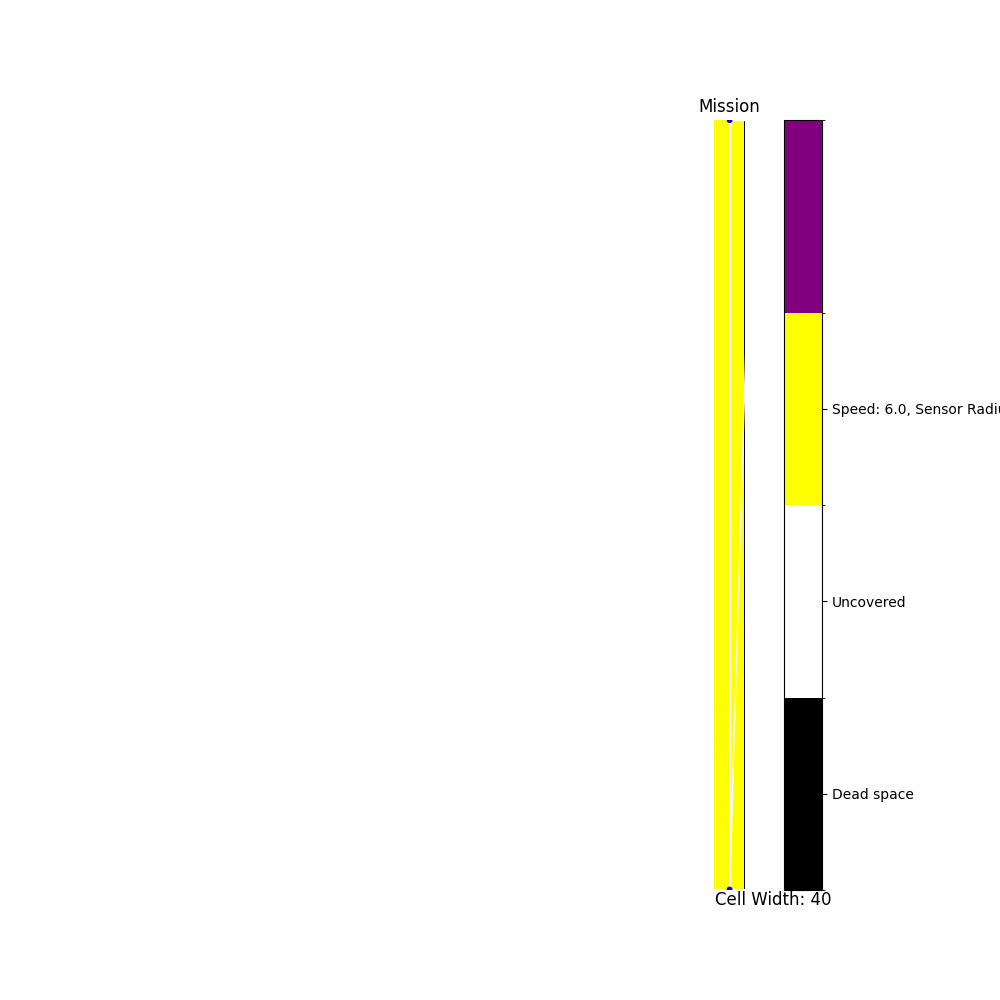
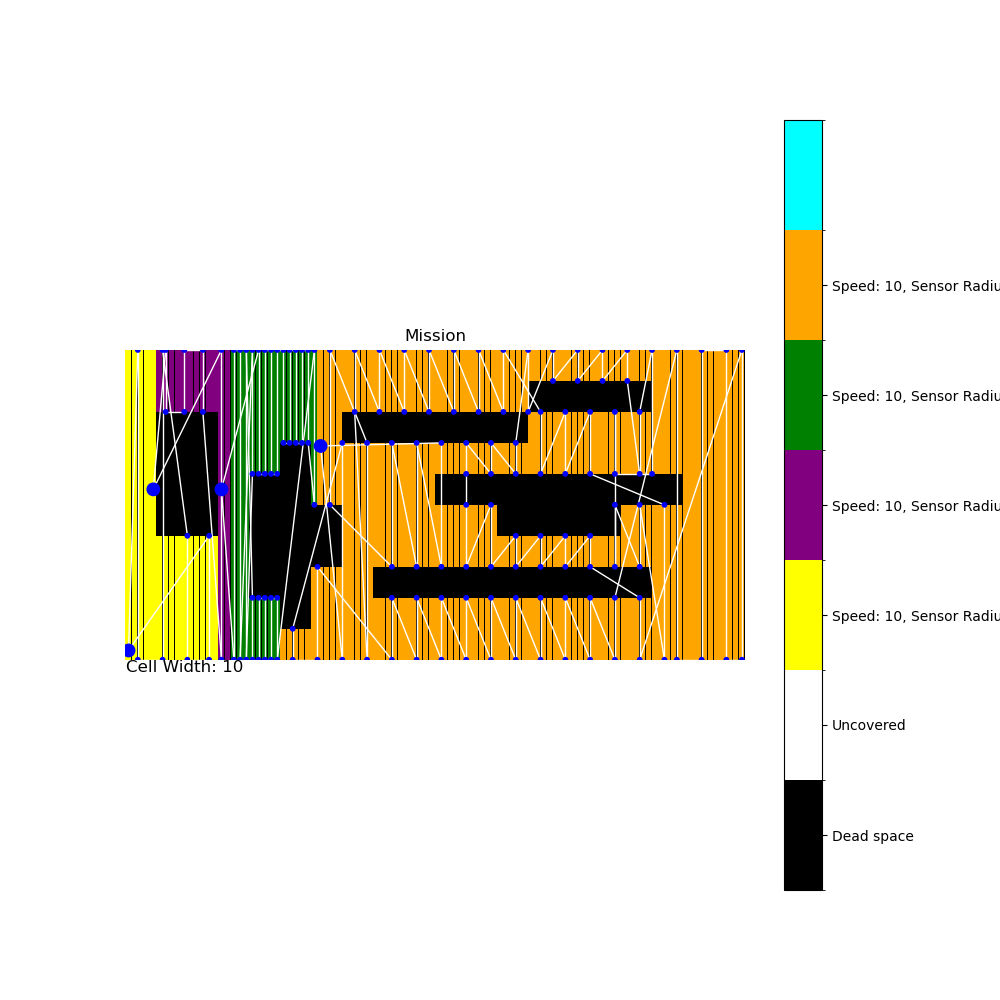
Fixed issue where computer_pairs was not being cleared after each iterations in region fine tuning

Changed region(s): [[0.124, 0.093, 0.775, 0.899], [0.775, 0.124, 1.0, 0.806]]

diff --git a/py/HARMONY/AlgorithmDevelopment/regionFineTuning.py b/py/HARMONY/AlgorithmDevelopment/regionFineTuning.py
@@ -8,47 +8,55 @@ import heapq
 def region_fine_tuning(mission, iterations, account_balances : list[int]):
     # Create a map from vehicle to index.
     # Needed because of change of nodes.[node]['region'] from int to tuple
-    region_map = {}
-    for e, v in enumerate(mission.vehicles):
-        region_map[v] = e
+    # region_map = {}
+    # for e, v in enumerate(mission.vehicles):
+    #     region_map[v] = e
 
     graph = mission.grid_graph.graph
     i = iterations
     pairsTimeOut = dict() # frozen set of two regions to a counter for how many turns they are in time out (if untradeable)
     regionNeighborNodes = find_neighbor_nodes(mission)
-    computedPairs = [] # max heap (min heap but using negated values)
 
     while(i > 0):
         printIteration(i, iterations)
         print(f"Account balances: {account_balances}")
         # Select buyer and seller
         pairFound = False
-        
+        computedPairs = [] # max heap (min heap but using negated values)
+
         # Pre-compute the pairs
-        for region in range(len(account_balances)):
-            currBal = account_balances[region]
-            numOfNeighborRegions = len(node["region"] for node in regionNeighborNodes[mission.vehicles[region]])
-            for adjRegion in range(numOfNeighborRegions):
-                adjBal = account_balances[adjRegion]
-                difference = currBal - adjBal
-                if difference < 0:
+        for (region, buyerBal) in account_balances.items():
+            neighborRegions = set(graph.nodes[node]["region"] for node in regionNeighborNodes[region]) # Set of neighboring regions
+            print(f"Region: {region} with balance: {buyerBal} has neighbors: {neighborRegions}")
+            print(f"Region neighbor nodes: {regionNeighborNodes[region]}")
+            for sellerRegion in neighborRegions:
+                sellerBal = account_balances[sellerRegion]
+                difference = buyerBal - sellerBal
+                print(f"DIFFERENCE: {difference} for buyer: {region} with balance: {buyerBal} and seller: {sellerRegion} with balance: {sellerBal}")
+                if difference <= 0 or buyerBal <= sellerBal:
                     continue
                 # else
-                computedPair = (region, adjRegion)
-                pairObj = ((-1 * difference), computedPair)
+                computedPair = (region, sellerRegion)
+                pairObj = ((-1 * buyerBal), (-1 * difference), computedPair)
                 heapq.heappush(computedPairs, pairObj)
+        print(f"Computed pairs: {computedPairs}")
 
         while pairFound == False and computedPairs:
             pairObj = heapq.heappop(computedPairs)
             try:
-                if pairsTimeOut[frozenset({pairObj[1][0], pairObj[1][1]})] == 0:
-                    buyer = pairObj[1][0]
-                    seller = pairObj[1][1]
+                print(f"Checking pair (buyer, seller): {frozenset({pairObj[2][0], pairObj[2][1]})} with a difference of: {-1 * (pairObj[1])}")
+                if pairsTimeOut[frozenset({pairObj[2][0], pairObj[2][1]})] == 0:
+                    buyer = pairObj[2][0]
+                    seller = pairObj[2][1]
                     pairFound = True
-                    print(f"Pair found. The buyer is: ${buyer}, The seller is: ${seller}")
+                    print(f"Pair found. The buyer is: {buyer}, The seller is: {seller}")
+                    print(f"\tThe buyer has a balance of: {-1 * (pairObj[0])}, The seller has a balance of: {account_balances[seller]}")
+                    print(f"\tThe difference is: {-1 * (pairObj[1])}, which should equal {-1 * (pairObj[0])} - {account_balances[seller]}, aka {-1 * (pairObj[0])} - {account_balances[seller]}")
+                else:
+                    print(f"Pair {frozenset({pairObj[2][0], pairObj[2][1]})} is in timeout for {pairsTimeOut[frozenset({pairObj[2][0], pairObj[2][1]})]} iterations")
             except:
-                buyer = pairObj[1][0]
-                seller = pairObj[1][1]
+                buyer = pairObj[2][0]
+                seller = pairObj[2][1]
                 pairFound = True
 
         # Subtract timeout from pairs
@@ -64,10 +72,10 @@ def region_fine_tuning(mission, iterations, account_balances : list[int]):
         print("================================================")
         # Find tasks to trade and update vehicle assignments
         keptNodes = find_kept_nodes(mission, regionNeighborNodes, buyer, seller, account_balances, pairsTimeOut)
-        tradedNodes = mission.vehicle_assignments[mission.vehicles[seller]] - keptNodes
-        mission.vehicle_assignments[mission.vehicles[buyer]] =  mission.vehicle_assignments[mission.vehicles[buyer]].union(tradedNodes)
-        mission.vehicle_assignments[mission.vehicles[seller]] = keptNodes
-        updateRegions(mission, regionNeighborNodes, seller, buyer, tradedNodes, region_map)
+        tradedNodes = mission.vehicle_assignments[seller] - keptNodes
+        mission.vehicle_assignments[buyer] =  mission.vehicle_assignments[buyer].union(tradedNodes)
+        mission.vehicle_assignments[seller] = keptNodes
+        updateRegions(mission, regionNeighborNodes, seller, buyer, tradedNodes)
 
         print(str(account_balances))
         print(str(buyer) + " is the buyer with a balance of: " + str(account_balances[buyer]))
@@ -82,16 +90,16 @@ def find_kept_nodes(mission, regionNeighborNodes, buyer, seller, account_balance
     graph = mission.grid_graph.graph
     print("Entering finding kept nodes")
 
-    sellerRegionSubgraph = graph.subgraph(mission.vehicle_assignments[mission.vehicles[seller]])
-    if set(sellerRegionSubgraph) - mission.vehicle_assignments[mission.vehicles[seller]] == set() and mission.vehicle_assignments[mission.vehicles[seller]] - set(sellerRegionSubgraph) == set():
+    sellerRegionSubgraph = graph.subgraph(mission.vehicle_assignments[seller])
+    if set(sellerRegionSubgraph) - mission.vehicle_assignments[seller] == set() and mission.vehicle_assignments[seller] - set(sellerRegionSubgraph) == set():
         print(f"Seller region subgraph and seller assignments contain the same elements")
     else:
         print(f"Seller region subgraph and seller assignments DO NOT contain the same elements")
-        nonSharedElements = (set(sellerRegionSubgraph) - mission.vehicle_assignments[mission.vehicles[seller]]).union(mission.vehicle_assignments[mission.vehicles[seller]] - set(sellerRegionSubgraph))
+        nonSharedElements = (set(sellerRegionSubgraph) - mission.vehicle_assignments[seller]).union(mission.vehicle_assignments[seller] - set(sellerRegionSubgraph))
         print(f"\tHere are the elements not in both sets {nonSharedElements}")
         print(f"The neighbors of (315, 345) in the full mission graph are: {graph.nodes[(315, 345)]}")
-    buyerRegionSubgraph = graph.subgraph(mission.vehicle_assignments[mission.vehicles[buyer]])
-    buyerNeighborsInSeller = regionNeighborNodes[mission.vehicles[buyer]].intersection(mission.vehicle_assignments[mission.vehicles[seller]])
+    buyerRegionSubgraph = graph.subgraph(mission.vehicle_assignments[buyer])
+    buyerNeighborsInSeller = regionNeighborNodes[buyer].intersection(mission.vehicle_assignments[seller])
 
     tradeFound = False
     kthLargest = 1
@@ -102,16 +110,16 @@ def find_kept_nodes(mission, regionNeighborNodes, buyer, seller, account_balance
             # return empty and mark the pair as untradable if no neighboring nodes (meaning one might be empty or another error?)
             print("Pairs are untradeable")
             pairsTimeOut[frozenset({buyer, seller})] = 1
-            return mission.vehicle_assignments[mission.vehicles[seller]]
+            return mission.vehicle_assignments[seller]
 
         # Candidate is kth largets node
         candidate = heapq.nlargest(kthLargest, buyerNeighborsInSeller, key=lambda node_key: graph.nodes[node_key]['weight'])[-1]
         print(f"{candidate} is selected as the candidate, with an area of {graph.nodes[candidate]['weight']}")
-        if candidate in regionNeighborNodes[mission.vehicles[buyer]]:
+        if candidate in regionNeighborNodes[buyer]:
             print("candidate is in buyer's neighbor set")
         else:
             print("candidate is not in buyer's neighbor set")
-        if candidate in mission.vehicle_assignments[mission.vehicles[seller]]:
+        if candidate in mission.vehicle_assignments[seller]:
             print("Candidate is in the seller")
         else:
             print("Candidate is not in the seller")
@@ -122,13 +130,13 @@ def find_kept_nodes(mission, regionNeighborNodes, buyer, seller, account_balance
             bestTradeIndex = float('inf')
             bestTradeSum = 0
             bestTrade = {}
-            print(f"Seller region subgraph: {sellerRegionSubgraph.nodes.items()}")
+            # print(f"Seller region subgraph: {sellerRegionSubgraph.nodes.items()}")
 
-            if set(sellerRegionSubgraph) - mission.vehicle_assignments[mission.vehicles[seller]] == set() and mission.vehicle_assignments[mission.vehicles[seller]] - set(sellerRegionSubgraph) == set():
+            if set(sellerRegionSubgraph) - mission.vehicle_assignments[seller] == set() and mission.vehicle_assignments[seller] - set(sellerRegionSubgraph) == set():
                 print(f"Seller region subgraph and seller assignments contain the same elements")
             else:
                 print(f"Seller region subgraph and seller assignments DO NOT contain the same elements")
-                nonSharedElements = (set(sellerRegionSubgraph) - mission.vehicle_assignments[mission.vehicles[seller]]).union(mission.vehicle_assignments[mission.vehicles[seller]] - set(sellerRegionSubgraph))
+                nonSharedElements = (set(sellerRegionSubgraph) - mission.vehicle_assignments[seller]).union(mission.vehicle_assignments[seller] - set(sellerRegionSubgraph))
                 print(f"\tHere are the elements not in both sets {nonSharedElements}")
 
             if(set(sellerRegionSubgraph) - set(graph) == set()):
@@ -141,10 +149,10 @@ def find_kept_nodes(mission, regionNeighborNodes, buyer, seller, account_balance
                 stack = [neighbor]
                 visited = set()
                 dfs(visited, stack, candidate, sellerRegionSubgraph)
-                print(f"Visited: {visited}")
-                print(f"Seller region: {mission.vehicle_assignments[mission.vehicles[seller]]}")
+                # print(f"Visited: {visited}")
+                # print(f"Seller region: {mission.vehicle_assignments[seller]}")
 
-                candidateTrade = mission.vehicle_assignments[mission.vehicles[seller]] - visited
+                candidateTrade = mission.vehicle_assignments[seller] - visited
                 print(f"Current candidate trade: {candidateTrade}")
                 if candidateTrade - set(graph) == set():
                     print(f"All items in the candidate trade are in the graph")
@@ -190,10 +198,10 @@ def find_kept_nodes(mission, regionNeighborNodes, buyer, seller, account_balance
             account_balances[seller] = account_balances[seller] + graph.nodes[candidate]['weight']
             tradeFound = True
             pairsTimeOut[frozenset({buyer, seller})] = 1
-            return mission.vehicle_assignments[mission.vehicles[seller]] - {candidate}
+            return mission.vehicle_assignments[seller] - {candidate}
         # If not returned yet no trade found, time out pair for 3 iterations and return seller assignments
     pairsTimeOut[frozenset({buyer, seller})] = 3
-    return mission.vehicle_assignments[mission.vehicles[seller]]
+    return mission.vehicle_assignments[seller]
 
 # Pre-condition: A mission area
 # Post-condtion: Returns a dictionary mapping an integer representing region to a set of nodes that neighbor that region
@@ -216,36 +224,36 @@ def sum_weights(mission, subgraph):
     print("\tCalculating weight sum...")
     graph = mission.grid_graph.graph
     weightSum = 0
-    print(f"Vehicle start positions: {mission.vehicles}")
-    print(f"\tAll nodes in the subgrapgh: {subgraph}")
-    print(f"\tAll nodes in the graph: {graph.nodes.items()}")
+    # print(f"Vehicle start positions: {mission.vehicles}")
+    # print(f"\tAll nodes in the subgrapgh: {subgraph}")
+    # print(f"\tAll nodes in the graph: {graph.nodes.items()}")
     for node_key in subgraph:
         node_data = graph.nodes[node_key]
         weightSum += node_data['weight']
     print("\n\t" + str(weightSum))
     return weightSum
 
-def updateRegions(mission, regionNeighborNodes, seller, buyer, tradedNodes, region_map):
+def updateRegions(mission, regionNeighborNodes, seller, buyer, tradedNodes):
         graph = mission.grid_graph.graph
         # Update regions post trade
-        for node_key in mission.vehicle_assignments[mission.vehicles[seller]]:
-            graph.nodes[node_key]['region'] = mission.vehicles[seller]
-        for node_key in mission.vehicle_assignments[mission.vehicles[buyer]]:
-            graph.nodes[node_key]['region'] = mission.vehicles[buyer]
+        for node_key in mission.vehicle_assignments[seller]:
+            graph.nodes[node_key]['region'] = seller
+        for node_key in mission.vehicle_assignments[buyer]:
+            graph.nodes[node_key]['region'] = buyer
 
         # If a region gains neighboring that they were also neighbors with, they are no longer neighbors
-        regionNeighborNodes[mission.vehicles[buyer]] = regionNeighborNodes[mission.vehicles[buyer]] - regionNeighborNodes[mission.vehicles[buyer]].intersection(tradedNodes)
+        regionNeighborNodes[buyer] = regionNeighborNodes[buyer] - regionNeighborNodes[buyer].intersection(tradedNodes)
         
         for node_key in tradedNodes:
             for neighbor_key in graph[node_key]:
                 neighbor_data = graph.nodes[neighbor_key]
-                if region_map[neighbor_data['region']] != seller:
-                    regionNeighborNodes[mission.vehicles[seller]] -= {neighbor_key}
+                if neighbor_data['region'] != seller:
+                    regionNeighborNodes[seller] -= {neighbor_key}
         
         # Add new neighbors
-        buyerRegionSubgraph = graph.subgraph(mission.vehicle_assignments[mission.vehicles[buyer]])
+        buyerRegionSubgraph = graph.subgraph(mission.vehicle_assignments[buyer])
         updateNeighbors(mission, buyerRegionSubgraph, regionNeighborNodes)
-        sellerRegionSubgraph = graph.subgraph(mission.vehicle_assignments[mission.vehicles[seller]])
+        sellerRegionSubgraph = graph.subgraph(mission.vehicle_assignments[seller])
         updateNeighbors(mission, sellerRegionSubgraph, regionNeighborNodes)
 
 def updateNeighbors(mission, regionSubgrapgh, regionNeighborNodes):
@@ -262,6 +270,9 @@ def isCutPoint(mission, candidate, sellerRegionSubgraph, seller):
     for e in sellerRegionSubgraph[candidate]:
         start = e
         break
+    if start is None:
+        print("No neighbors found for candidate, returning False")
+        return False
     stack = [start]
     visited = set()
     while stack:
@@ -271,7 +282,7 @@ def isCutPoint(mission, candidate, sellerRegionSubgraph, seller):
             if neighbor not in visited and neighbor != candidate:
                 stack.append(neighbor)
 
-    if mission.vehicle_assignments[mission.vehicles[seller]] - {candidate} == visited:
+    if mission.vehicle_assignments[seller] - {candidate} == visited:
         return False
     return True 
 

diff --git a/py/HARMONY/AlgorithmDevelopment/__main__.py b/py/HARMONY/AlgorithmDevelopment/__main__.py
@@ -55,7 +55,7 @@ bals = cyclic_region_growth(mission_3)
 
 # mission_3.draw(show_neighbors=False, node_color="blue", edge_color="white")
 
-region_fine_tuning(mission_3, 100, bals)
+region_fine_tuning(mission_3, 1000, bals)
 print("Balances post reigon growth: " + str(bals))
 
 mission_3.redraw_grid_colormesh()
